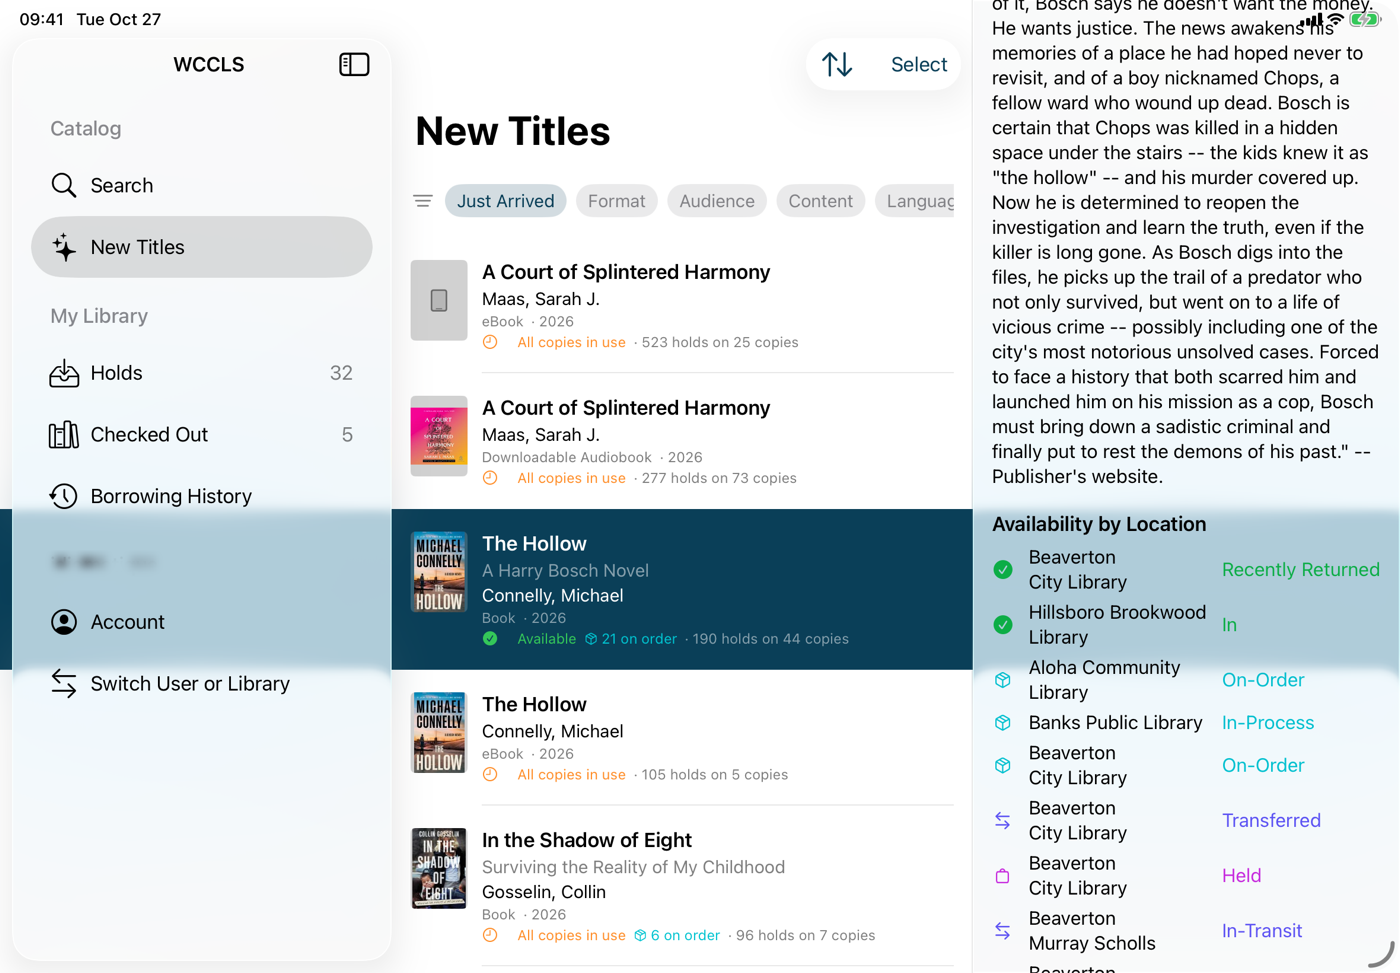
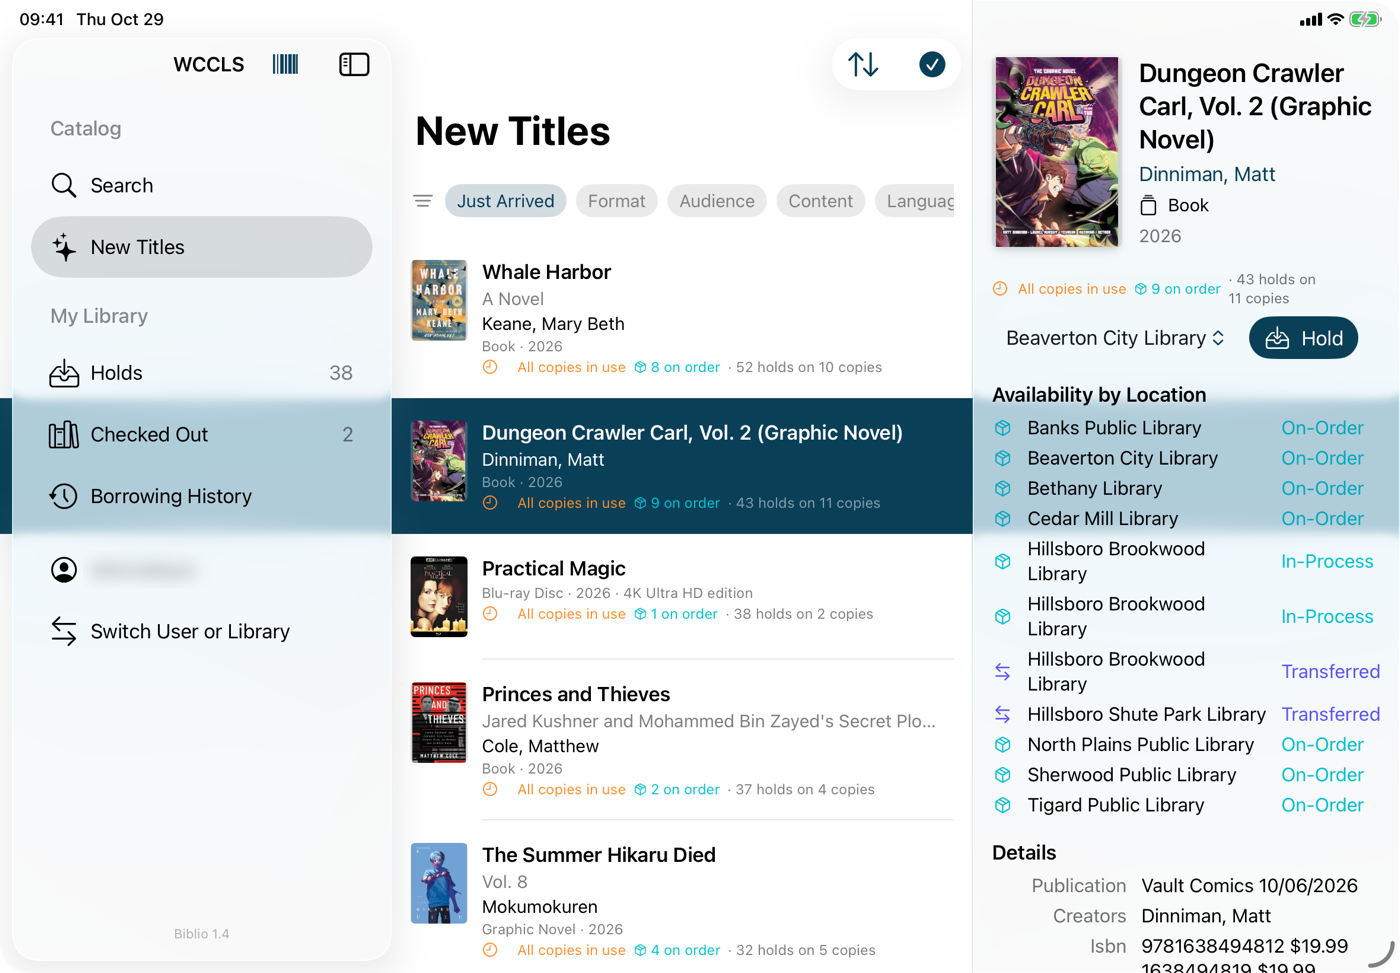
Version 1.4: close the inspector on section change, tidier editions, new screenshots
- Switching sections closes the item inspector and clears its item, instead
  of leaving the last list's item open.
- Editions drop every matching pair of square brackets, not only enclosing
  ones ("4K Ultra HD [edition]" reads "4K Ultra HD edition"); unmatched
  brackets stay. tidyEdition now takes the parse arena.
- Retake the iPhone and iPad README screenshots on 1.4, and document how in
  SCREENSHOTS.md, with its blur tool in docs/screenshots/blur.swift.
- Version 1.4 for the Apple, Android and Windows apps, and 1.4.0 for the core.
- TODO.md: localization, accent-insensitive title sort, and screenshots.

diff --git a/docs/screenshots/blur.swift b/docs/screenshots/blur.swift
@@ -1,0 +1,25 @@
+// swift docs/screenshots/blur.swift IN OUT POINT_WIDTH x,y,w,h... — Gaussian-blur each rect (in points, top-left origin), keeping alpha.
+import CoreImage
+import Foundation
+import ImageIO
+import UniformTypeIdentifiers
+
+let a = CommandLine.arguments
+let src = CGImageSourceCreateWithURL(URL(fileURLWithPath: a[1]) as CFURL, nil)!
+let cg = CGImageSourceCreateImageAtIndex(src, 0, nil)!
+let k = CGFloat(cg.width) / CGFloat(Double(a[3])!)
+let H = CGFloat(cg.height)
+var img = CIImage(cgImage: cg)
+let input = img
+for spec in a[4...] {
+    let v = spec.split(separator: ",").map { CGFloat(Double($0)!) }
+    let r = CGRect(x: v[0] * k, y: H - (v[1] + v[3]) * k, width: v[2] * k, height: v[3] * k).integral
+    let blurred = input.cropped(to: r).clampedToExtent()
+        .applyingGaussianBlur(sigma: 7 * k).cropped(to: r)
+    img = blurred.composited(over: img)
+}
+let ctx = CIContext()
+let out = ctx.createCGImage(img, from: input.extent)!
+let dst = CGImageDestinationCreateWithURL(URL(fileURLWithPath: a[2]) as CFURL, UTType.png.identifier as CFString, 1, nil)!
+CGImageDestinationAddImage(dst, out, nil)
+CGImageDestinationFinalize(dst)

diff --git a/apple/Biblio/Model/Session.swift b/apple/Biblio/Model/Session.swift
@@ -81,7 +81,15 @@ final class WindowSession {
 
     var patron: Patron?
     var loginError: String?
-    var section: AppSection? = .search
+    /// Switching sections closes the inspector and clears its item, which belonged to the old list.
+    var section: AppSection? = .search {
+        didSet {
+            guard section != oldValue else { return }
+            showInspector = false
+            selection = nil
+            selectedEntries = []
+        }
+    }
     var selection: Bib?
     /// All selected rows when more than one is selected (the inspector then shows bulk actions).
     var selectedEntries: [ListEntry] = []

diff --git a/SCREENSHOTS.md b/SCREENSHOTS.md
@@ -1,0 +1,46 @@
+# Screenshots
+
+How to regenerate the [README](README.md) screenshots in [docs/screenshots](docs/screenshots).
+
+## Shots
+
+| File | Device | Screen | Blur |
+|---|---|---|---|
+| `iphone-search.png` | iPhone 17 | Search "dune", Format: Book | — |
+| `iphone-facets.png` | iPhone 17 | Search "dune", Format menu open | — |
+| `iphone-detail.png` | iPhone 17 | Dune (2019) item sheet, Availability by Location | — |
+| `iphone-new-titles.png` | iPhone 17 | New Titles, Just Arrived | — |
+| `iphone-holds.png` | iPhone 17 | Holds, All | covers, titles, subtitles, authors, format lines |
+| `iphone-account.png` | iPhone 17 | Account | Name value |
+| `iphone-add-library.png` | iPhone 17 | Add Library, "county" typed | — |
+| `ipad-new-titles.png` | iPad (A16), landscape | New Titles sorted by People Waiting, top item in the inspector, scrolled to Availability by Location | sidebar username |
+| `ipad-holds.png` | iPad (A16), landscape | Holds, All, no inspector | as `iphone-holds.png`, plus sidebar username |
+| `mac-*.png` | macOS | as the README's alt text says | titles and usernames, as above |
+
+Output widths: iPhone 600 px, iPad 1400 px, macOS 1400 px (settings 700 px), with `sips --resampleWidth`.
+
+## Setup
+
+* Build Debug for `generic/platform=iOS Simulator` and install on both simulators.
+* `xcrun simctl status_bar <device> override --time "9:41" --batteryState charged --batteryLevel 100 --wifiBars 3 --cellularBars 4 --dataNetwork wifi`.
+* Launch with `xcrun simctl launch <device> com.rbrian.Biblio -SampleAccount YES` (sample card number and email).
+* Sign in as the existing WCCLS user; never type credentials.
+* Rotate the iPad left for landscape.
+
+## Capture
+
+* `xcrun simctl io <device> screenshot --mask=alpha` (rounded screen corners).
+* Landscape iPad captures arrive in portrait; fix with `sips -r 270`. Taps stay in the portrait frame: for an upright point (X, Y), tap (820 − Y, X).
+* The simulator renders taps 1–2 s late; screenshot after a pause.
+* Typing before a field gains focus is lost: tap, wait, then type.
+* A focused field's cursor blinks: take a burst and keep a frame without it.
+* Wait for the bottom status bar (`TITLE [SIZE KiB]`) to fade, 2 s after the last request.
+* Sorting by People Waiting fetches every page for about a minute and reorders rows; wait until the list settles.
+* Switching sections closes the inspector, so `ipad-holds.png` has none.
+* The catalog changes; pick current titles and update the README's alt text to match.
+
+## Privacy
+
+* Blur with [blur.swift](docs/screenshots/blur.swift): `swift docs/screenshots/blur.swift IN OUT POINT_WIDTH x,y,w,h…` (rects in points; iPhone 17 is 402 pt wide, landscape iPad (A16) 1180 pt).
+* On holds, blur covers and every text line except the status line.
+* Never capture the host Mac's screen; the user takes macOS shots into `docs/screenshots/raw` (ignored by Git), then blur and resize them.

diff --git a/AGENTS.md b/AGENTS.md
@@ -1,4 +1,4 @@
-* write "Biblio", a native SwiftUI app for macOS, iOS, and iPadOS (version 1.3): a patron front-end to https://LIBRARY.bibliocommons.com/.
+* write "Biblio", a native SwiftUI app for macOS, iOS, and iPadOS (version 1.4): a patron front-end to https://LIBRARY.bibliocommons.com/.
 ## views
 * holds: view, add, and remove; when the library refuses a removal (e.g., "Ready for pickup"), say why, including partial refusals.
 * checked out items, borrowing history, search, and advanced search.
@@ -11,8 +11,8 @@
 * multiple selection places or cancels holds on many items.
 * refresh by pull-down (iOS/iPadOS) or menu item (macOS): account lists start a fresh session; stale rows stay, dimmed, until the first page replaces them; the open item's details reload.
 * list items show format, year, edition, and availability, including "on order" copies (with a box symbol).
-* editions drop catalog punctuation: enclosing square brackets and a closing period, except one ending an abbreviation.
-* an inspector shows item detail; on macOS its toggle is the rightmost toolbar button.
+* editions drop catalog punctuation: matching square brackets and a closing period, except one ending an abbreviation.
+* an inspector shows item detail, closing when the section changes; on macOS its toggle is the rightmost toolbar button.
 * item detail fetches "Availability by Location" in the background (collection and call number are optional), with a colored symbol for each copy's status (e.g., available, on order, out, in transit, missing).
 * item detail has "Hold" with a pickup location menu (defaulting to the preferred location), or "Cancel Hold" for held items.
 * dragging part of item detail onto any window's holds places a hold, or onto its search field searches for it; no drag hints.
@@ -54,5 +54,6 @@
 * [README.md](README.md) for GitHub: features, requirements, building, project layout, and license (BSD 3-Clause).
 * [NOTES-API.md](NOTES-API.md): the BiblioCommons gateway endpoints the app uses.
 * [CHANGELOG.md](CHANGELOG.md): user-facing changes per version, tagged `vX.Y` at each version bump.
+* [SCREENSHOTS.md](SCREENSHOTS.md): how to regenerate the README screenshots; record new capture discoveries there.
 ## miscellaneous
 * delete .zig-cache and zig-out when cleaning up the workspace.

diff --git a/TODO.md b/TODO.md
@@ -1,10 +1,10 @@
 # TODO
 
-- **Rework the language picker.** The operating system owns the user's language choice, so
-  Account → Language shouldn't be a separate in-app picker. Follow the system's preferred
-  languages instead (per-app language on iOS and macOS is in Settings). Send the closest one
-  the library supports to the library account's language setting, so catalog labels match the
-  rest of the app.
-- **Improve i18n.** The app's own text is hard-coded English, and so are some messages from
-  the networking layer. Make that text localizable with a String Catalog. Use the system locale
-  to format dates such as due and pickup dates.
+- **Localization.** Make the app's text, and the core's messages, localizable with a String
+  Catalog, following the platform's language settings, independent of the library account's
+  language. Format dates (due, pickup) with the system locale.
+- **Title sort.** Sort titles as people expect: ignoring case and accents, with numbers by
+  value ("Book 2" before "Book 10", "Émile" before "Zoolander"). The core's title sort handles
+  numbers and case, but not accents.
+- **Screenshots.** Regenerate the README screenshots for the next version, following
+  [SCREENSHOTS.md](SCREENSHOTS.md).

diff --git a/docs/core.md b/docs/core.md
@@ -171,7 +171,7 @@ pass these pointers to `free`.
 const char *biblio_version(void);
 ```
 
-Returns the core's version, for example `"1.3.0"`. The string is static; don't free it.
+Returns the core's version, for example `"1.4.0"`. The string is static; don't free it.
 
 ```c
 typedef char *(*biblio_password_fn)(void *ctx, const char *subdomain, const char *username);
@@ -479,7 +479,7 @@ A catalog record.
 | `authors` | string array | Primary author first |
 | `format` | string | A format code; get the display name with `biblio_format_name` |
 | `publication_date`? | string | Shapes vary, such as `"2026"`, `"20261006"` or `"c1999"` |
-| `edition`? | string | Without enclosing square brackets or a closing period, except one ending an abbreviation |
+| `edition`? | string | Without matching square brackets or a closing period, except one ending an abbreviation |
 | `call_number`?, `summary`? | string | |
 | `jacket_small`?, `jacket_large`? | string | Image URLs |
 | `material_type` | string | Pass it to `biblio_place_hold` |

diff --git a/README.md b/README.md
@@ -24,7 +24,7 @@ Copy status by location, color-coded: available, on order or in process, out, he
 <table>
 <tr>
 <td width="55%"><img src="docs/screenshots/mac-hollow.png" alt="Search on macOS with The Hollow's copies by location in the inspector"></td>
-<td><img src="docs/screenshots/ipad-new-titles.png" alt="New Titles on iPad sorted by people waiting, with The Hollow's copies by location in the inspector"></td>
+<td><img src="docs/screenshots/ipad-new-titles.png" alt="New Titles on iPad sorted by people waiting, with Dungeon Crawler Carl's copies by location in the inspector"></td>
 </tr>
 <tr>
 <td align="center">macOS</td>

diff --git a/CHANGELOG.md b/CHANGELOG.md
@@ -10,7 +10,9 @@ the core and are not yet released.
 
 ### Changed
 - Editions read as written, without the square brackets and closing period of library
-  catalogs ("[First edition]." reads "First edition").
+  catalogs ("[First edition]." reads "First edition", "4K Ultra HD [edition]" reads
+  "4K Ultra HD edition").
+- Switching sections closes the item inspector, instead of leaving the last list's item open.
 
 ## 1.3 — 2026-10-29
 
